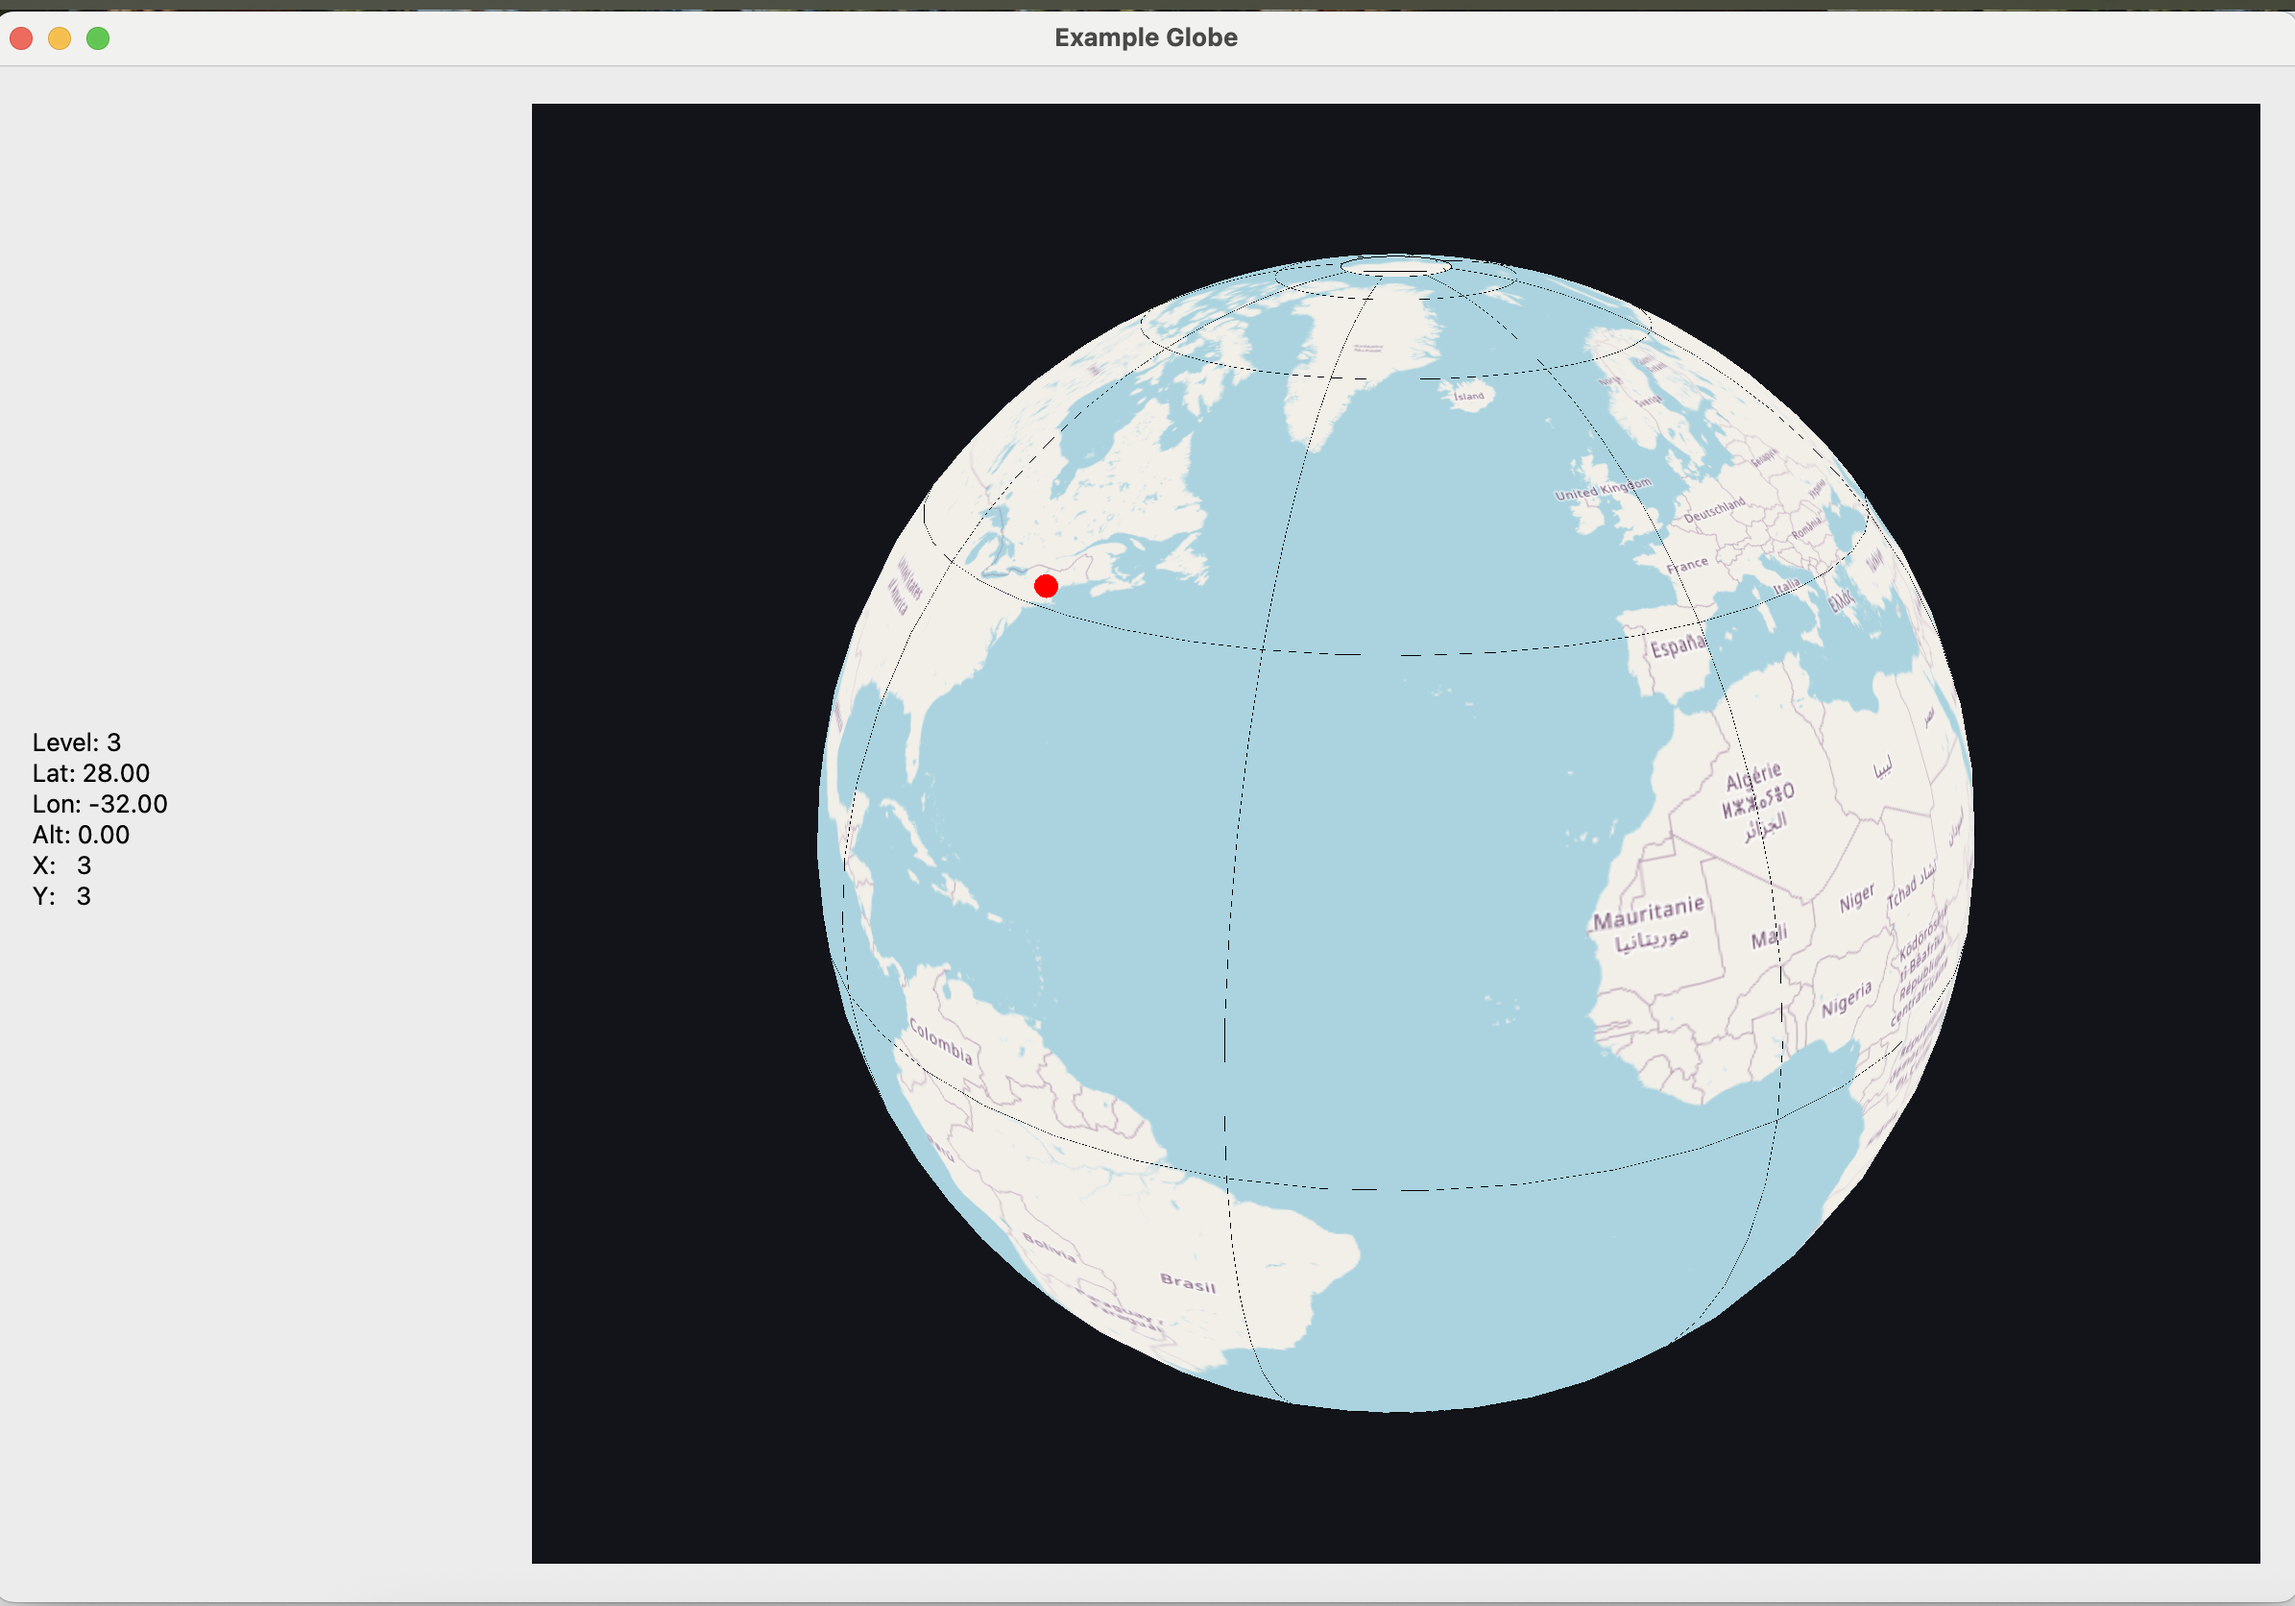
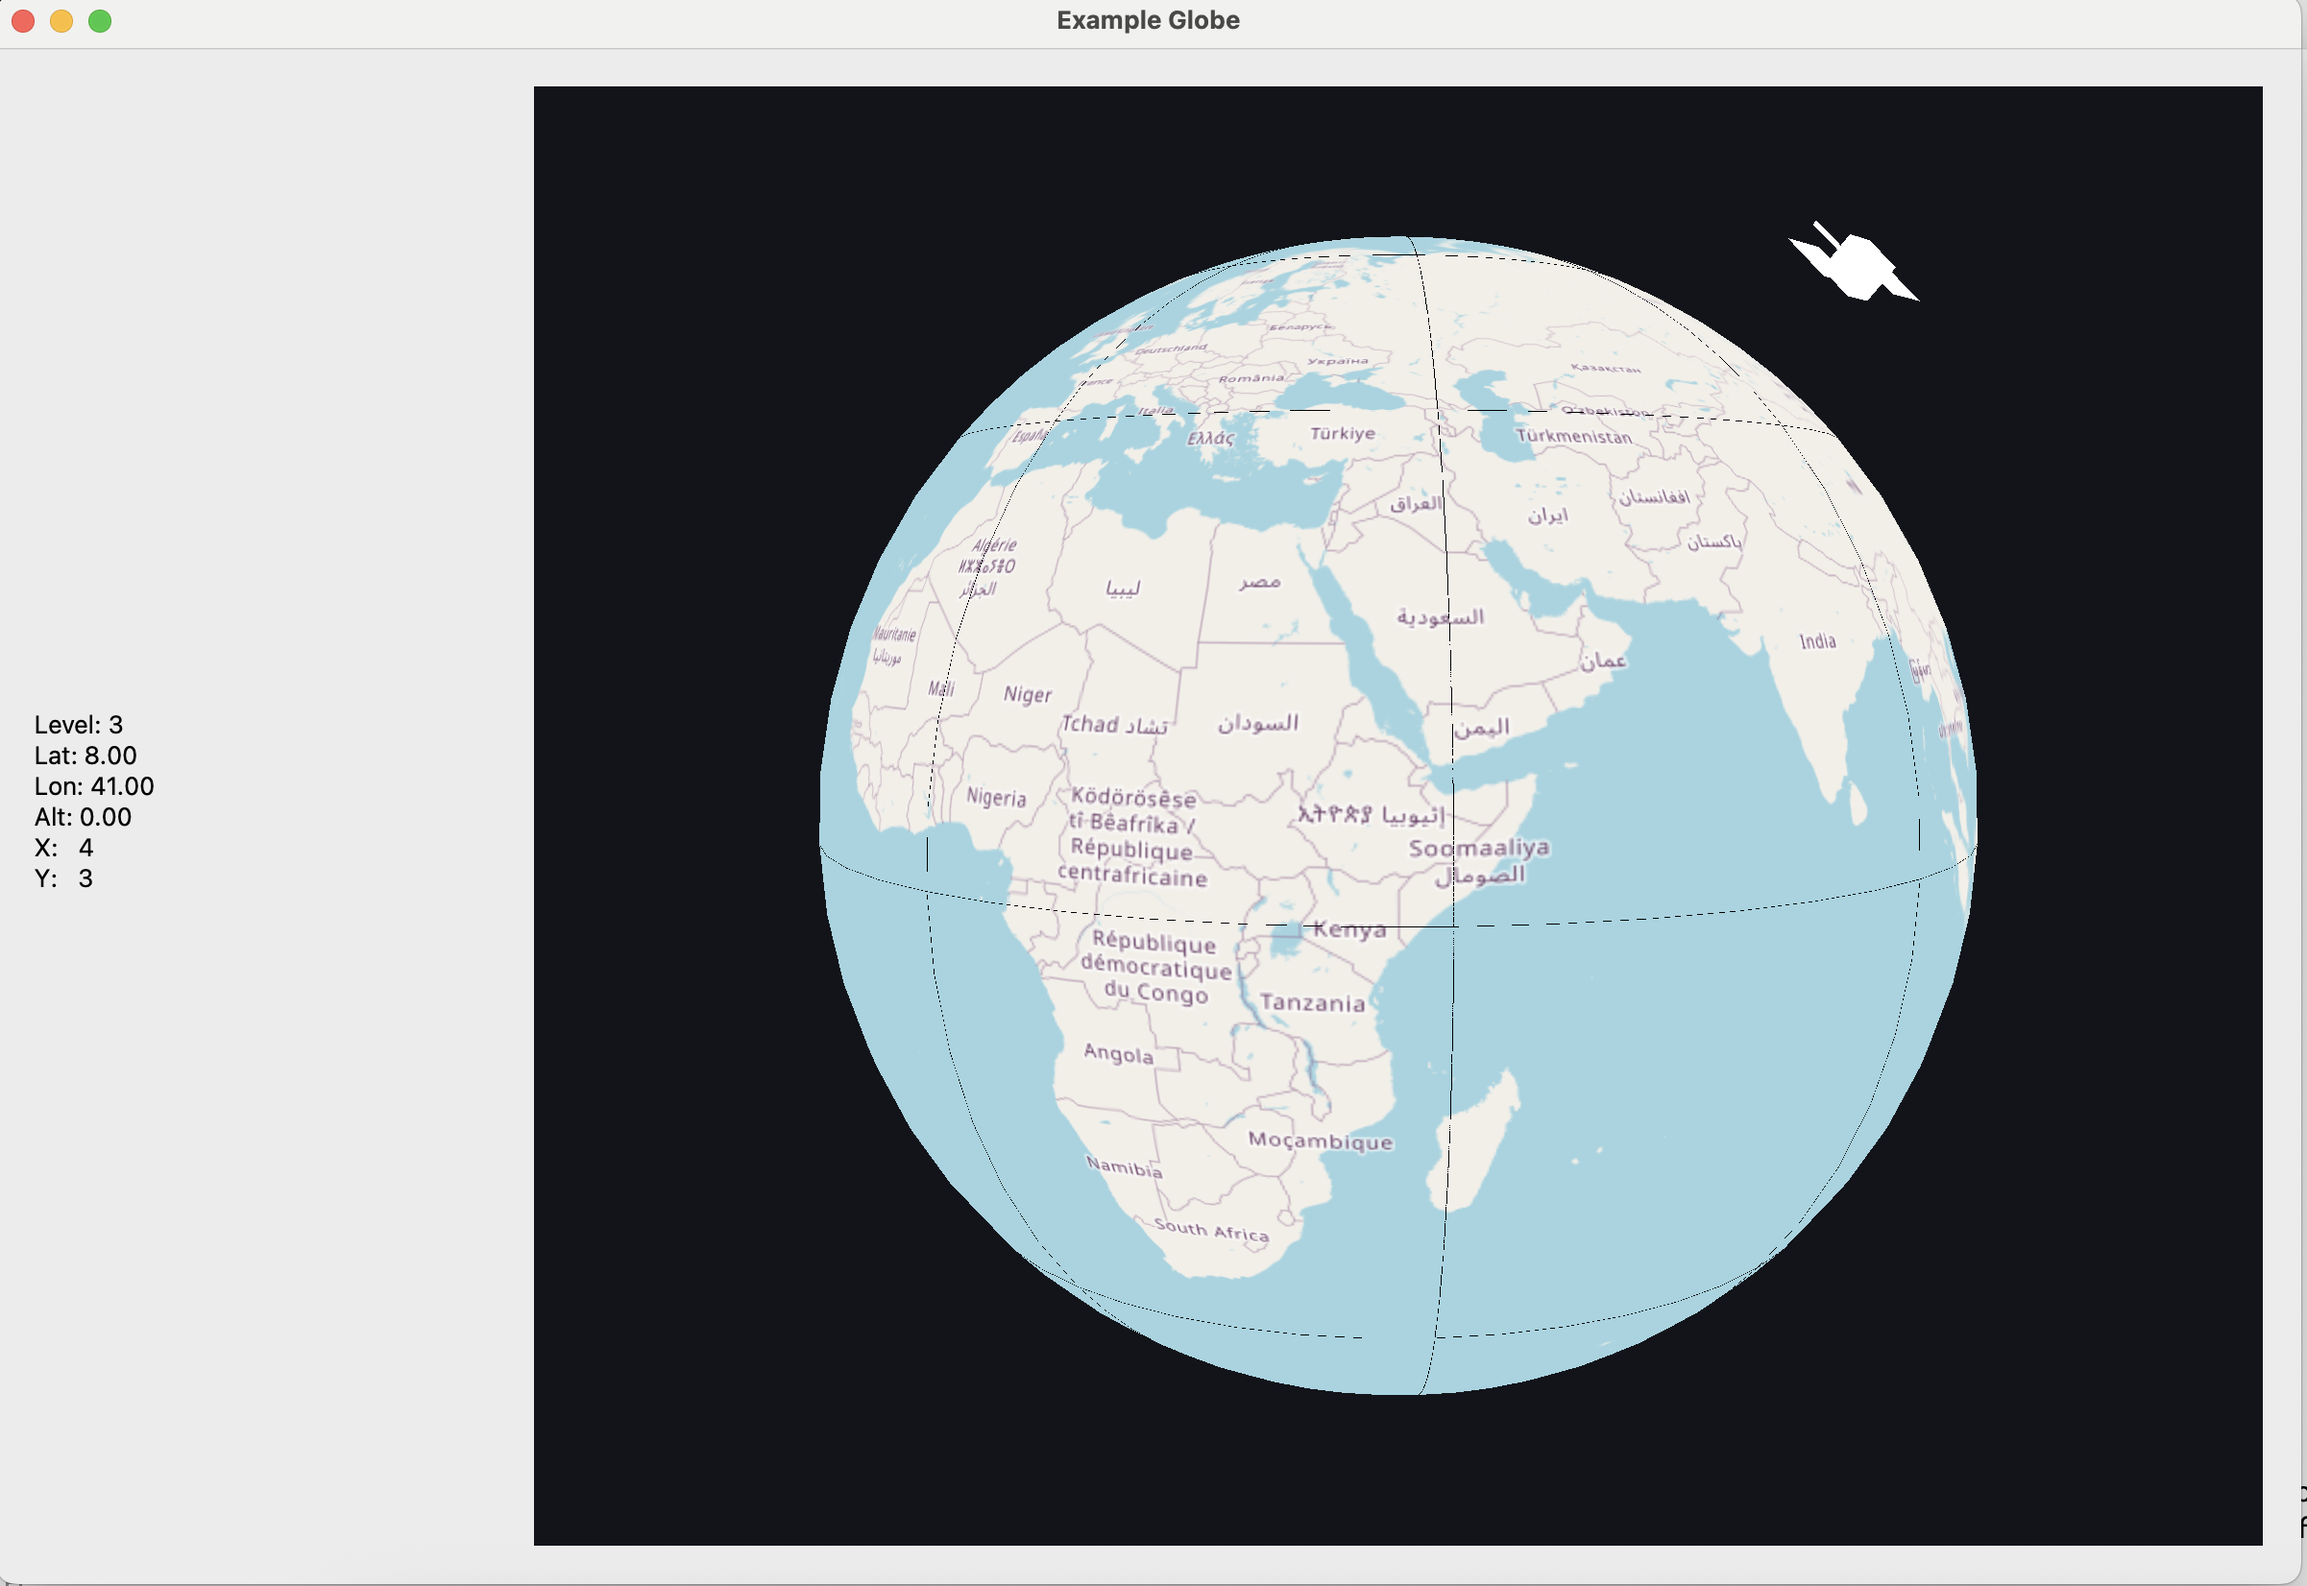
first satellite example integrated

diff --git a/obj_loader.py b/obj_loader.py
@@ -1,0 +1,107 @@
+from OpenGL.GL import *
+import numpy as np
+import os
+
+class Mesh:
+    def __init__(self):
+        self.vertices = []
+        self.normals = []
+        self.faces = []
+        self.materials = {}
+
+class Material:
+    def __init__(self, name):
+        self.name = name
+        self.diffuse = [0.8, 0.8, 0.8]
+
+class OBJLoader:
+    @staticmethod
+    def load(path):
+        mesh = Mesh()
+        material = None
+        vertices, normals = [], []
+        current_material = None
+
+        mtl_path = None
+        base_dir = os.path.dirname(path)
+
+        with open(path, "r") as f:
+            for line in f:
+                if line.startswith("mtllib"):
+                    mtl_path = os.path.join(base_dir, line.split()[1].strip())
+                elif line.startswith("usemtl"):
+                    current_material = line.split()[1].strip()
+                elif line.startswith("v "):
+                    vertices.append(list(map(float, line.split()[1:])))
+                elif line.startswith("vn "):
+                    normals.append(list(map(float, line.split()[1:])))
+                elif line.startswith("f "):
+                    face = []
+                    for v in line.split()[1:]:
+                        parts = v.split("/")
+                        vi = int(parts[0]) - 1
+                        ni = int(parts[-1]) - 1 if len(parts) > 2 and parts[-1] else 0
+                        face.append((vi, ni, current_material))
+                    mesh.faces.append(face)
+
+        if mtl_path and os.path.exists(mtl_path):
+            mesh.materials = OBJLoader.load_mtl(mtl_path)
+
+        mesh.vertices = np.array(vertices)
+        mesh.normals = np.array(normals)
+        return mesh
+
+    @staticmethod
+    def load_mtl(path):
+        materials = {}
+        current = None
+        with open(path, "r") as f:
+            for line in f:
+                if line.startswith("newmtl"):
+                    current = Material(line.split()[1].strip())
+                    materials[current.name] = current
+                elif line.startswith("Kd") and current:
+                    current.diffuse = list(map(float, line.split()[1:4]))
+        return materials
+
+
+class SceneObject:
+    def __init__(self, mesh):
+        self.mesh = mesh
+        self.position = np.zeros(3)
+        self.rotation = np.zeros(3)
+        self.scale = np.ones(3)
+
+    def draw(self):
+        glPushMatrix()
+        glTranslatef(*self.position)
+        glRotatef(self.rotation[0], 1, 0, 0)
+        glRotatef(self.rotation[1], 0, 1, 0)
+        glRotatef(self.rotation[2], 0, 0, 1)
+        glScalef(*self.scale)
+
+        glBegin(GL_TRIANGLES)
+        for face in self.mesh.faces:
+            for vi, ni, matname in face:
+                mat = self.mesh.materials.get(matname)
+                if mat:
+                    glColor3fv(mat.diffuse)
+                if len(self.mesh.normals) > 0:
+                    glNormal3fv(self.mesh.normals[ni])
+                glVertex3fv(self.mesh.vertices[vi])
+        glEnd()
+
+        glPopMatrix()
+
+
+class Scene:
+    def __init__(self):
+        self.objects = []
+
+    def add(self, obj):
+        self.objects.append(obj)
+
+    def draw(self):
+        for obj in self.objects:
+            obj.draw()
+

diff --git a/dynamic.py b/dynamic.py
@@ -25,6 +25,7 @@ from PyQt5.QtCore import Qt, QTimer, pyqtSignal, QThread, pyqtSlot
 from PyQt5.QtWidgets import QApplication, QMainWindow, QOpenGLWidget
 from OpenGL.GL import *
 from OpenGL.GLU import *
+from obj_loader import OBJLoader, SceneObject, Scene
 
 import math
 import numpy as np
@@ -137,6 +138,12 @@ class GlobeOfflineTileAligned(QOpenGLWidget):
         self.zoom_level = 3
         self.center_lla = {'lat' : 0, 'lon': 0, 'alt': 0}
 
+        # Object holder
+        self.scene = Scene()
+
+        self.load_satellite()
+
+
         #-------------------------------------------------
         # Life cycle of a tile:
         #-------------------------------------------------
@@ -209,7 +216,46 @@ class GlobeOfflineTileAligned(QOpenGLWidget):
         event.accept()
         super().closeEvent(ev)
 
+    def load_satellite(self)->None:
+        #------------------------------------------------------
+        # Load a satellite
+        base = os.path.dirname(__file__)
+        sat_path = os.path.join(base, "assets/satellite/satellite.obj")
+        sat_mesh = OBJLoader.load(sat_path)
+        sat = SceneObject(sat_mesh)
+        sat.scale = np.array([0.1, 0.1, 0.1])
+        sat.position = np.array([0, 0.87, 0.87])
+
+        dir_vec = -sat.position.astype(float)
+        norm = np.linalg.norm(dir_vec)
+        #if norm == 0:
+        #    continue
+        dir_vec /= norm
+        dx, dy, dz = dir_vec[0], dir_vec[1], dir_vec[2]
+
+        # yaw: rotation around Y so forward (+Z local) points toward dir_vec
+        yaw = np.degrees(np.atan2(dx, dz))
+
+        # pitch: rotation around local X so forward axis tilts up/down toward dir_vec
+        pitch = np.degrees(np.atan2(dy, np.sqrt(dx*dx + dz*dz)))
+
+        # optional small self-spin about local forward axis (roll) or around model Z:
+        roll = 0.0
+        # assign into your satect rotation (X=pitch, Y=yaw, Z=roll)
+        sat.rotation = np.array([pitch, yaw, roll])
+        #------------------------------------------------------
+
+        self.scene.add(sat)
+
+
     def initializeGL(self)->None:
+        # This enables lighting
+        ##glEnable(GL_LIGHTING)
+        ##glEnable(GL_LIGHT0)
+        ##glEnable(GL_COLOR_MATERIAL)
+        ##glColorMaterial(GL_FRONT_AND_BACK, GL_AMBIENT_AND_DIFFUSE)
+        ##glShadeModel(GL_SMOOTH)
+
         glEnable(GL_DEPTH_TEST)
         glEnable(GL_TEXTURE_2D)
         glFrontFace(GL_CW)
@@ -315,6 +361,7 @@ class GlobeOfflineTileAligned(QOpenGLWidget):
             self._draw_spherical_tile(lat0, lat1, lon0, lon1, tex, alpha=1.0)
 
         self.debug_place_markers()
+        self.scene.draw()
 
     def debug_place_markers(self):
         ''' Draw a test dot in boston '''

diff --git a/test_object_loading/sample_object_project/main.py b/test_object_loading/sample_object_project/main.py
@@ -39,7 +39,7 @@ class GLWidget(QOpenGLWidget):
         sat_mesh = OBJLoader.load(sat_path)
         for i in range(3):
             sat = SceneObject(sat_mesh)
-            sat.scale = np.array([0.5, 0.5, 0.5])
+            sat.scale = np.array([0.2, 0.2, 0.2])
             self.scene.add(sat)
 
     def resizeGL(self, w, h):

diff --git a/README.md b/README.md
@@ -10,6 +10,7 @@ This is just an idea, so far
 # Code Index
 - dynamic.py - main app, displays an opengl globe with map tiles
 - tile_fetcher.py - threaded qt clss for fetching tiles
+- obj_loader.py - load and manage scene objects
 - test_object_loading  - test code for loading and displaying models
     - triangle : simple rotating triangle
     - satellite : load and rotate a satellite model
